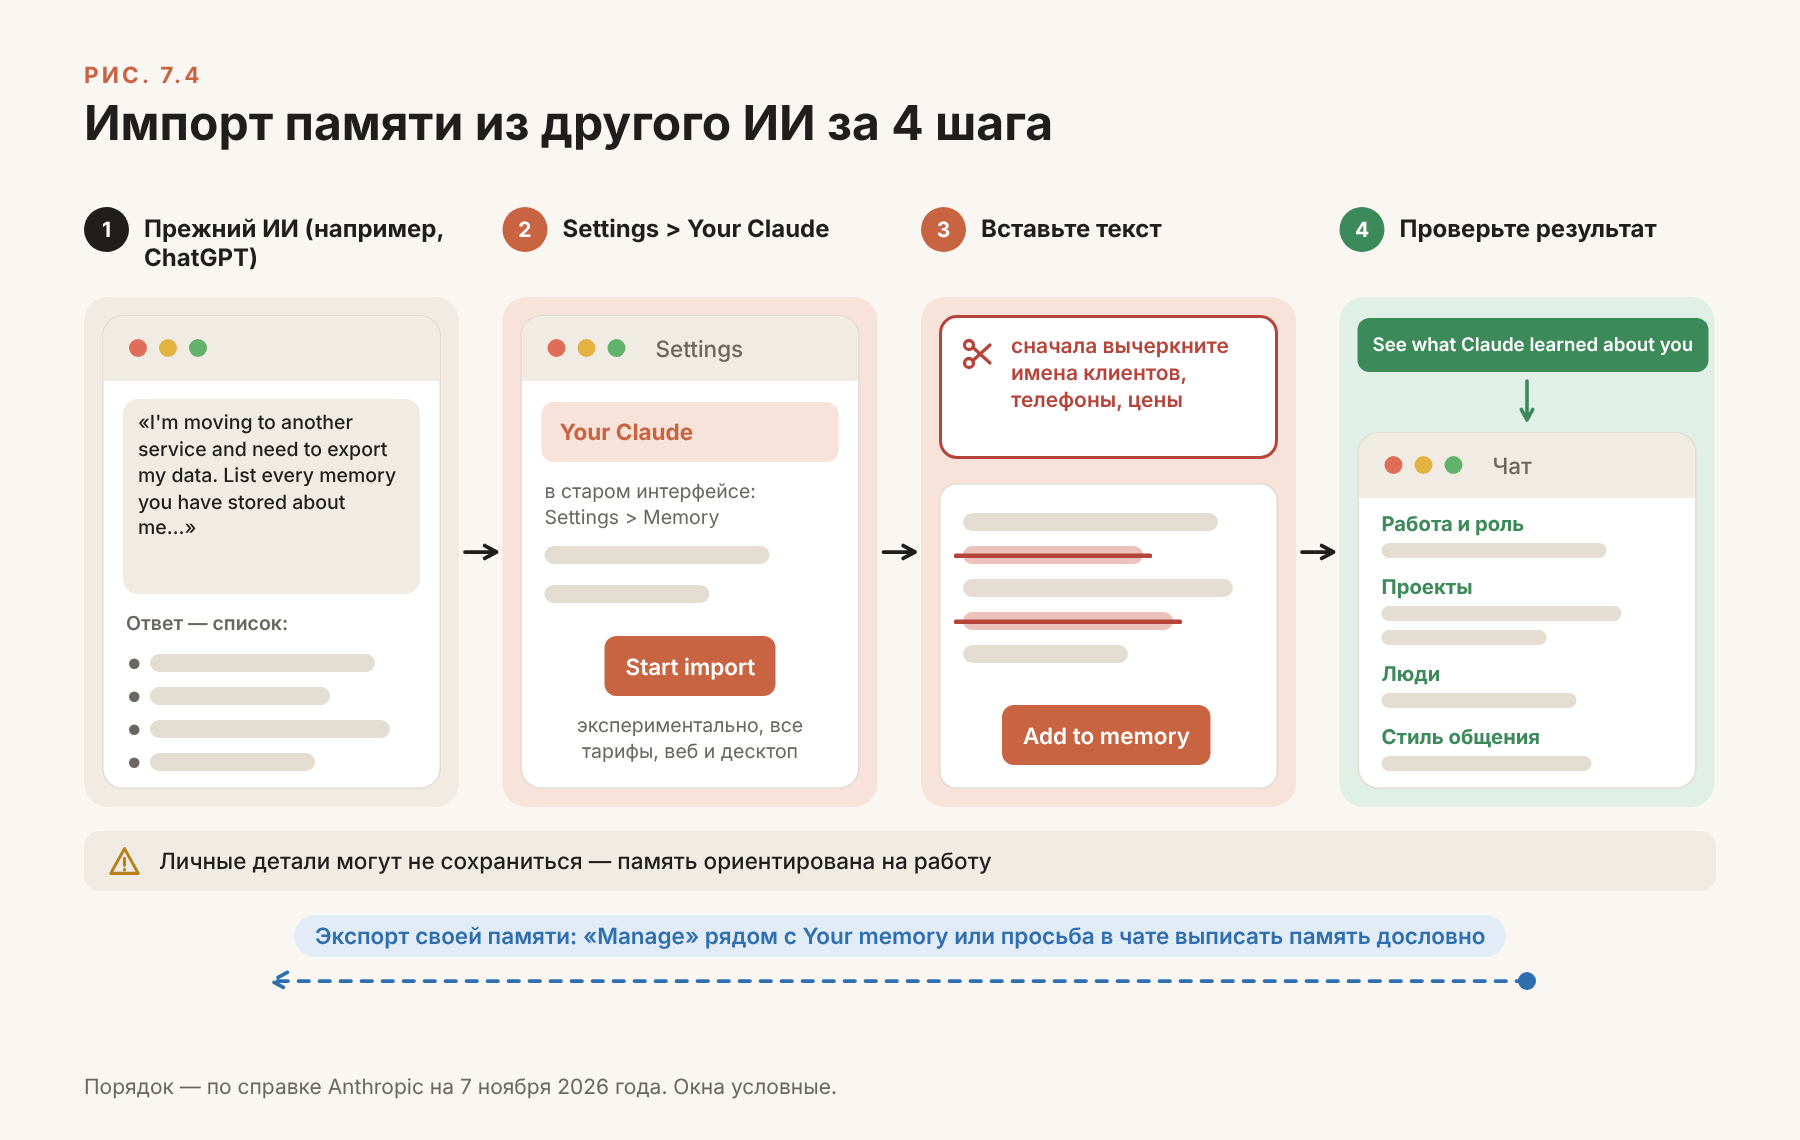
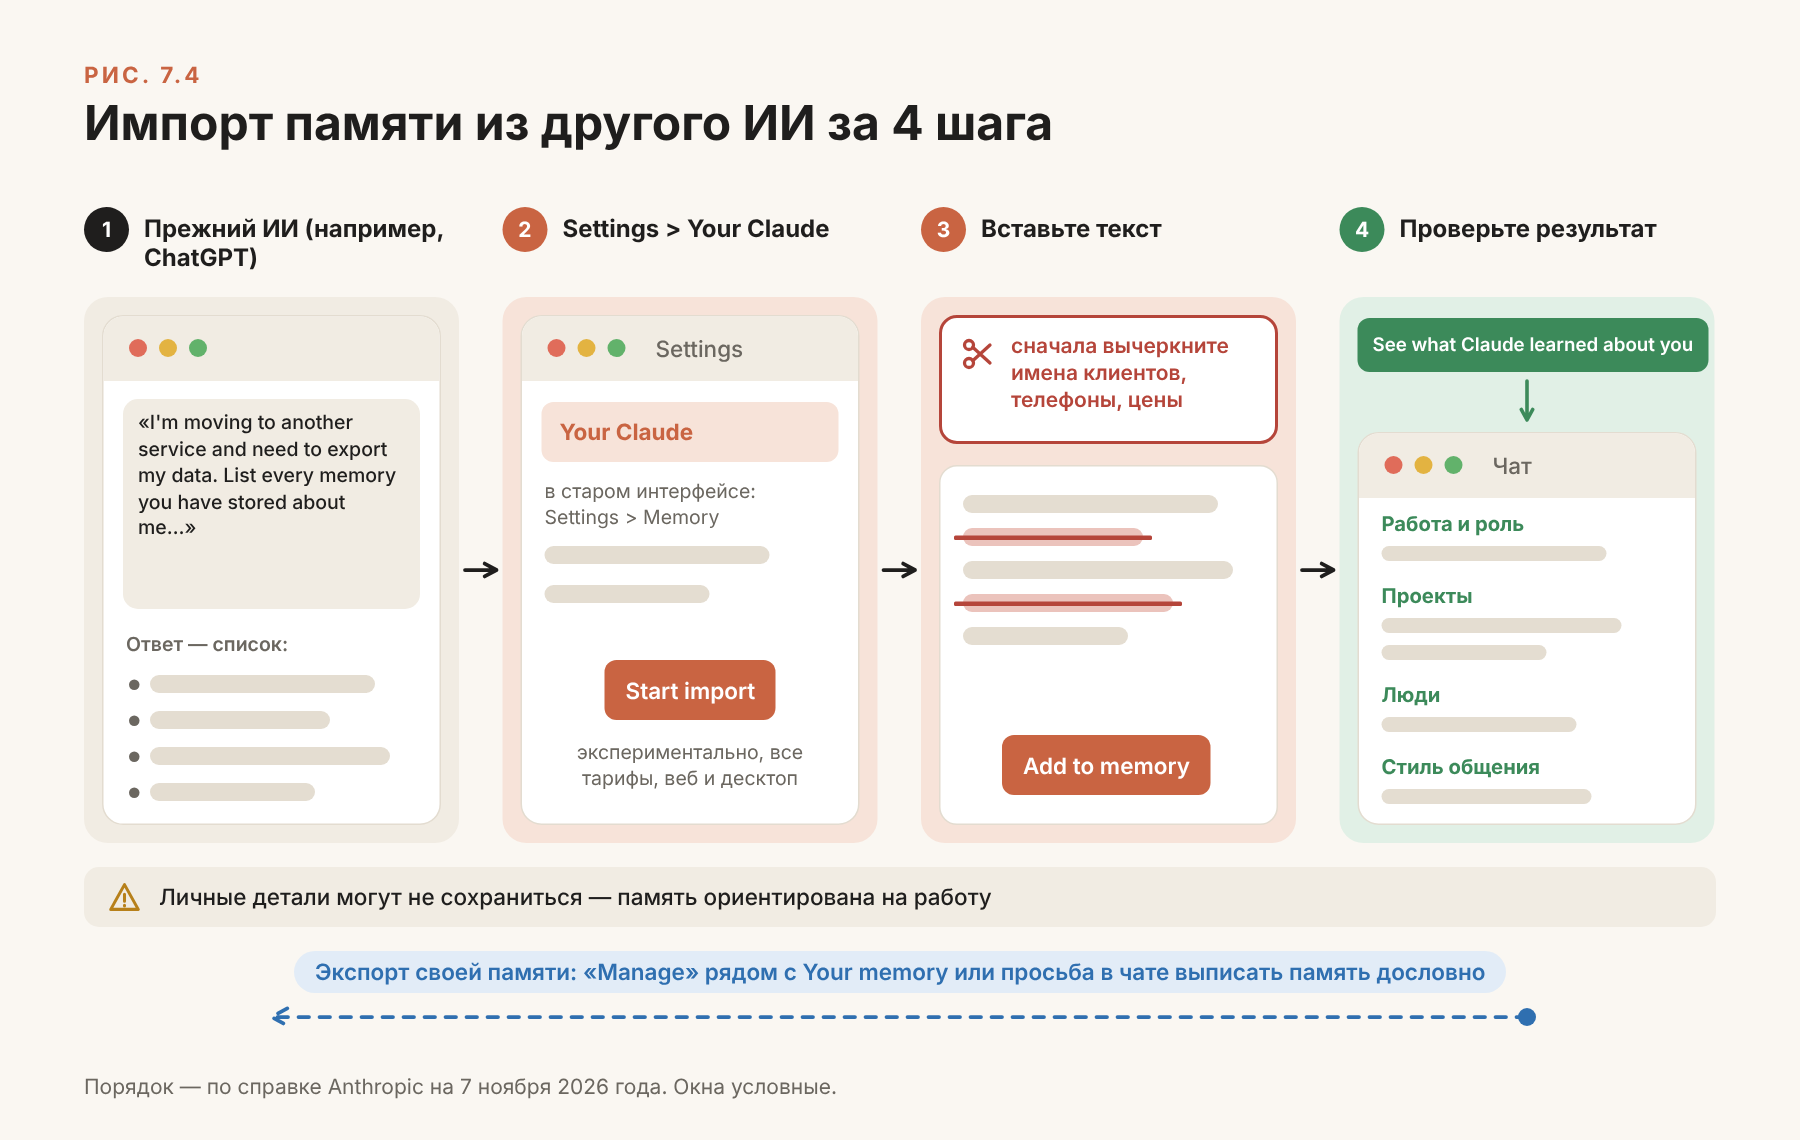
Книга: рисунки главы 7 (в работе)
Claude-Session: https://claude.ai/code/session_01PrJN9HGzceweAP4YJhZkcm

diff --git a/book/src/render/s-7-3.js b/book/src/render/s-7-3.js
@@ -54,7 +54,7 @@ NOTE(f,'Условный макет и условные записи. Откро
 
 // ===== 7.4
 const g=FIG(sheet,1,'7.4','Импорт памяти из другого ИИ за 4 шага');
-const CW=250,GX=29,TOP=138,BH=340;const xs=[0,1,2,3].map(i=>56+i*(CW+GX));
+const CW=250,GX=29,TOP=138,BH=364;const xs=[0,1,2,3].map(i=>56+i*(CW+GX));
 const heads=['Прежний ИИ (например, ChatGPT)','Settings > Your Claude','Вставьте текст','Проверьте результат'];
 const tints=[[P.mut,P.soft],[P.acc,P.accT],[P.acc,P.accT],[P.grn,P.grnT]];
 xs.forEach((x,i)=>{NUM(g,i+1,x,TOP,{d:30,size:14,fill:i===0?P.ink:(i===3?P.grn:P.acc)});T(g,heads[i],x+40,TOP+5,{size:16,w:'b',width:CW-40,lh:120});});
@@ -62,10 +62,10 @@ const BY=TOP+60;
 xs.forEach((x,i)=>{R(g,x,BY,CW,BH,{fill:tints[i][1],r:16});if(i<3)A(g,x+CW+4,BY+BH/2,x+CW+GX-4,BY+BH/2,{c:P.ink,sw:2.5,head:9});});
 // 1: окно чата прежнего ИИ
 {const x=xs[0];const c=WIN(g,x+12,BY+12,CW-24,BH-24,'');
- R(g,x+26,c+12,CW-52,130,{fill:P.soft,r:10});
+ R(g,x+26,c+12,CW-52,140,{fill:P.soft,r:10});
  T(g,'«I\'m moving to another service and need to export my data. List every memory you have stored about me…»',x+36,c+20,{size:13,w:'m',c:P.ink,width:CW-72,lh:135});
- T(g,'Ответ — список:',x+28,c+154,{size:13,w:'s',c:P.mut});
- [0,1,2,3].forEach(k=>{const yy=c+182+k*22;E(g,x+30,yy+3,7,P.mut);R(g,x+44,yy,[150,120,160,110,135][k],12,{fill:'#E4DDD1',r:6});});}
+ T(g,'Ответ — список:',x+28,c+168,{size:13,w:'s',c:P.mut});
+ [0,1,2,3].forEach(k=>{const yy=c+196+k*24;E(g,x+30,yy+3,7,P.mut);R(g,x+44,yy,[150,120,160,110,135][k],12,{fill:'#E4DDD1',r:6});});}
 // 2: Settings
 {const x=xs[1];const c=WIN(g,x+12,BY+12,CW-24,BH-24,'Settings');
  R(g,x+26,c+14,CW-52,40,{fill:P.accT,r:8});T(g,'Your Claude',x+38,c+24,{size:15,w:'b',c:P.acc});
@@ -73,24 +73,24 @@ xs.forEach((x,i)=>{R(g,x,BY,CW,BH,{fill:tints[i][1],r:16});if(i<3)A(g,x+CW+4,BY+
  [0,1].forEach(k=>R(g,x+28,c+110+k*26,[150,110][k],12,{fill:'#E4DDD1',r:6}));
  const bw=BT(g,'Start import',0,0,{size:15,fill:P.acc,c:'#FFFFFF',stroke:null,h:40});
  // переставим кнопку по центру
- const nb=g.children.slice(-2);nb[0].x=x+(CW-bw)/2;nb[0].y=c+170;nb[1].x=nb[0].x+14;nb[1].y=c+170+(40-nb[1].height)/2;
- T(g,'экспериментально, все тарифы, веб и десктоп',x+28,c+222,{size:13,c:P.mut,width:CW-56,lh:130,align:'CENTER'});}
+ const nb=g.children.slice(-2);nb[0].x=x+(CW-bw)/2;nb[0].y=c+186;nb[1].x=nb[0].x+14;nb[1].y=c+186+(40-nb[1].height)/2;
+ T(g,'экспериментально, все тарифы, веб и десктоп',x+28,c+240,{size:13,c:P.mut,width:CW-56,lh:130,align:'CENTER'});}
 // 3: поле вставки
 {const x=xs[2];
  // выноска с ножницами
- R(g,x+12,BY+12,CW-24,96,{fill:P.card,stroke:P.red,r:12,sw:2});ICON(g,'scissors',x+26,BY+26,24,P.red,2.2);
+ R(g,x+12,BY+12,CW-24,86,{fill:P.card,stroke:P.red,r:12,sw:2});ICON(g,'scissors',x+26,BY+26,24,P.red,2.2);
  T(g,'сначала вычеркните имена клиентов, телефоны, цены',x+60,BY+24,{size:14,w:'s',c:P.red,width:CW-88,lh:130});
- const fy=BY+124;R(g,x+12,fy,CW-24,BH-136,{fill:P.card,stroke:P.line,r:12});
+ const fy=BY+112;R(g,x+12,fy,CW-24,BH-124,{fill:P.card,stroke:P.line,r:12});
  const lines=[[170,0],[120,1],[180,0],[140,1],[110,0]];
  lines.forEach(([w,cut],k)=>{const yy=fy+20+k*22;R(g,x+28,yy,w,12,{fill:cut?'#EBC3BC':'#E4DDD1',r:6});if(cut)R(g,x+22,yy+5,w+12,2.5,{fill:P.red,r:1});});
- BT(g,'Add to memory',x+(CW-142)/2,fy+BH-136-56,{size:15,fill:P.acc,c:'#FFFFFF',stroke:null,h:40});}
+ BT(g,'Add to memory',x+(CW-142)/2,fy+BH-124-60,{size:15,fill:P.acc,c:'#FFFFFF',stroke:null,h:40});}
 // 4: проверка
 {const x=xs[3];
  BT(g,'See what Claude learned about you',x+12,BY+14,{size:12.5,fill:P.grn,c:'#FFFFFF',stroke:null,h:36,px:10});
  A(g,x+CW/2,BY+56,x+CW/2,BY+82,{c:P.grn,sw:2.4,head:8});
  const c=WIN(g,x+12,BY+90,CW-24,BH-102,'Чат');
  [['Работа и роль',[140,100]],['Проекты',[150,90]],['Люди',[120]],['Стиль общения',[130]]].forEach(([h,ls],k,arr)=>{});
- let yy=c+10;[['Работа и роль',[150]],['Проекты',[160,110]],['Люди',[130]],['Стиль общения',[140]]].forEach(([h,ls])=>{T(g,h,x+28,yy,{size:13.5,w:'b',c:P.grn});yy+=20;ls.forEach(w=>{R(g,x+28,yy,w,10,{fill:'#E4DDD1',r:5});yy+=16;});yy+=6;});}
+ let yy=c+10;[['Работа и роль',[150]],['Проекты',[160,110]],['Люди',[130]],['Стиль общения',[140]]].forEach(([h,ls])=>{T(g,h,x+28,yy,{size:13.5,w:'b',c:P.grn});yy+=22;ls.forEach(w=>{R(g,x+28,yy,w,10,{fill:'#E4DDD1',r:5});yy+=18;});yy+=8;});}
 // подпись под стрелками
 const cy2=BY+BH+16;
 R(g,56,cy2,1088,40,{fill:P.soft,r:10});ICON(g,'warn',72,cy2+9,22,P.amb,2.2);
